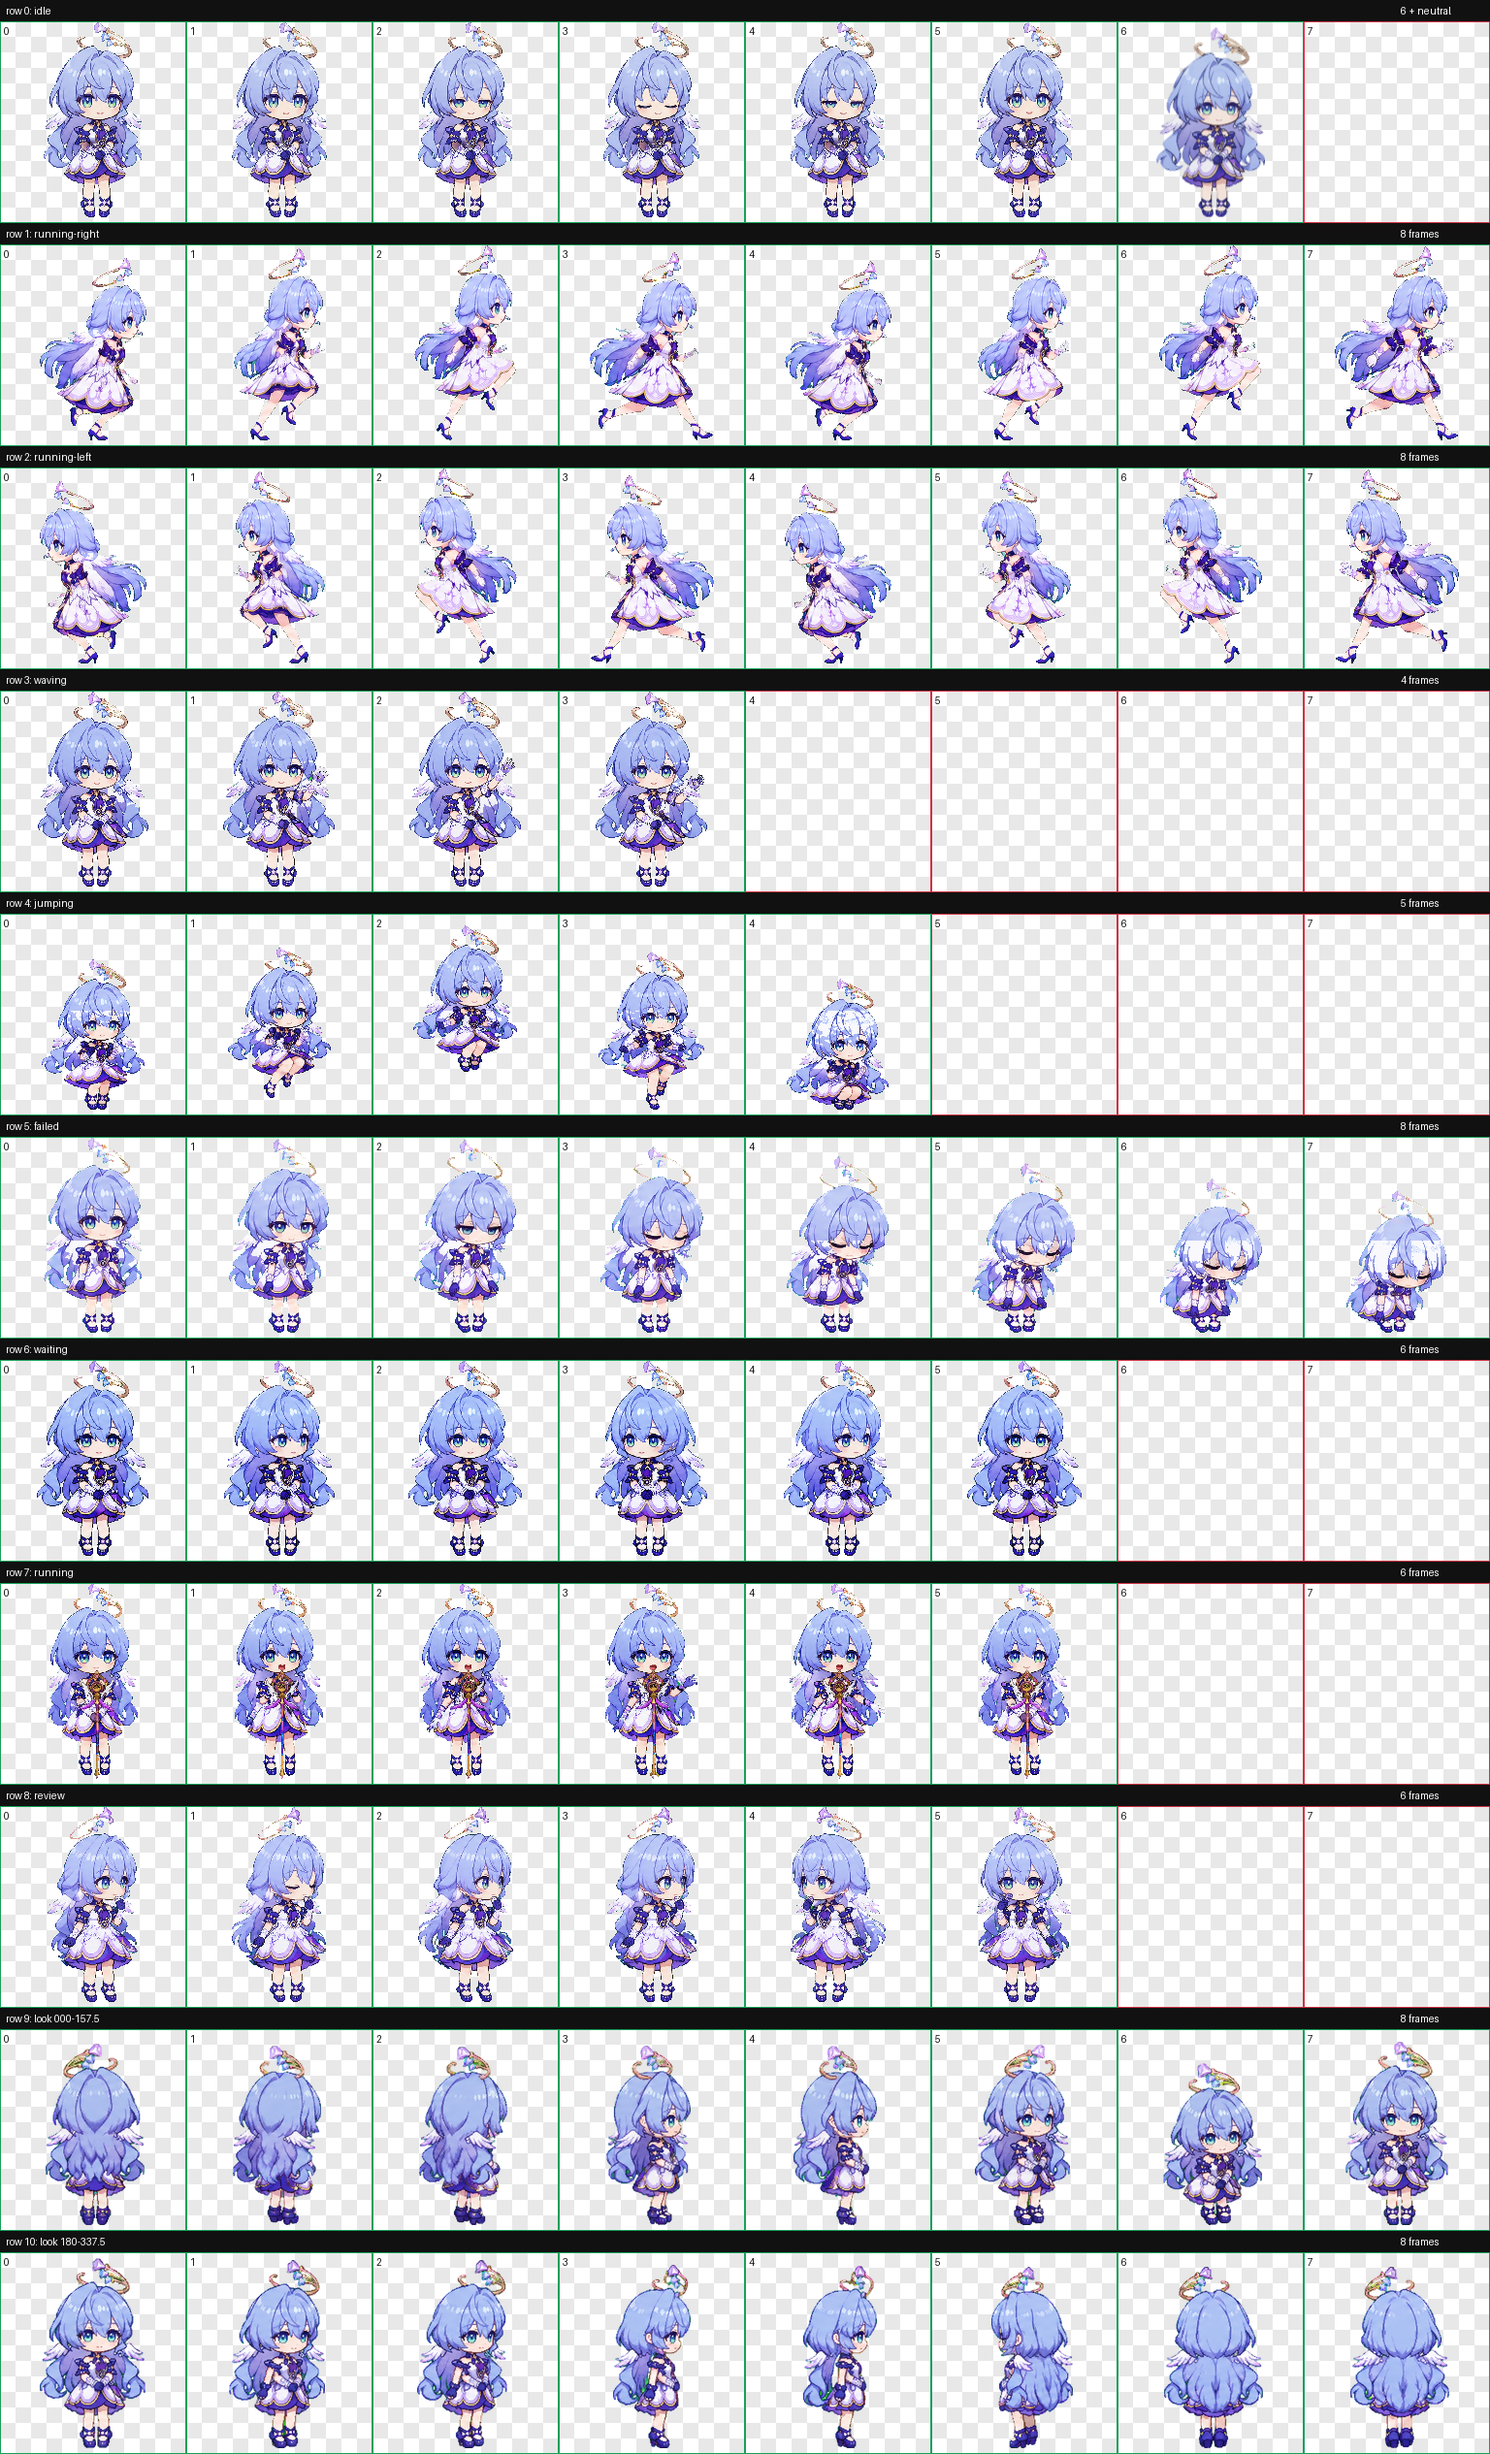
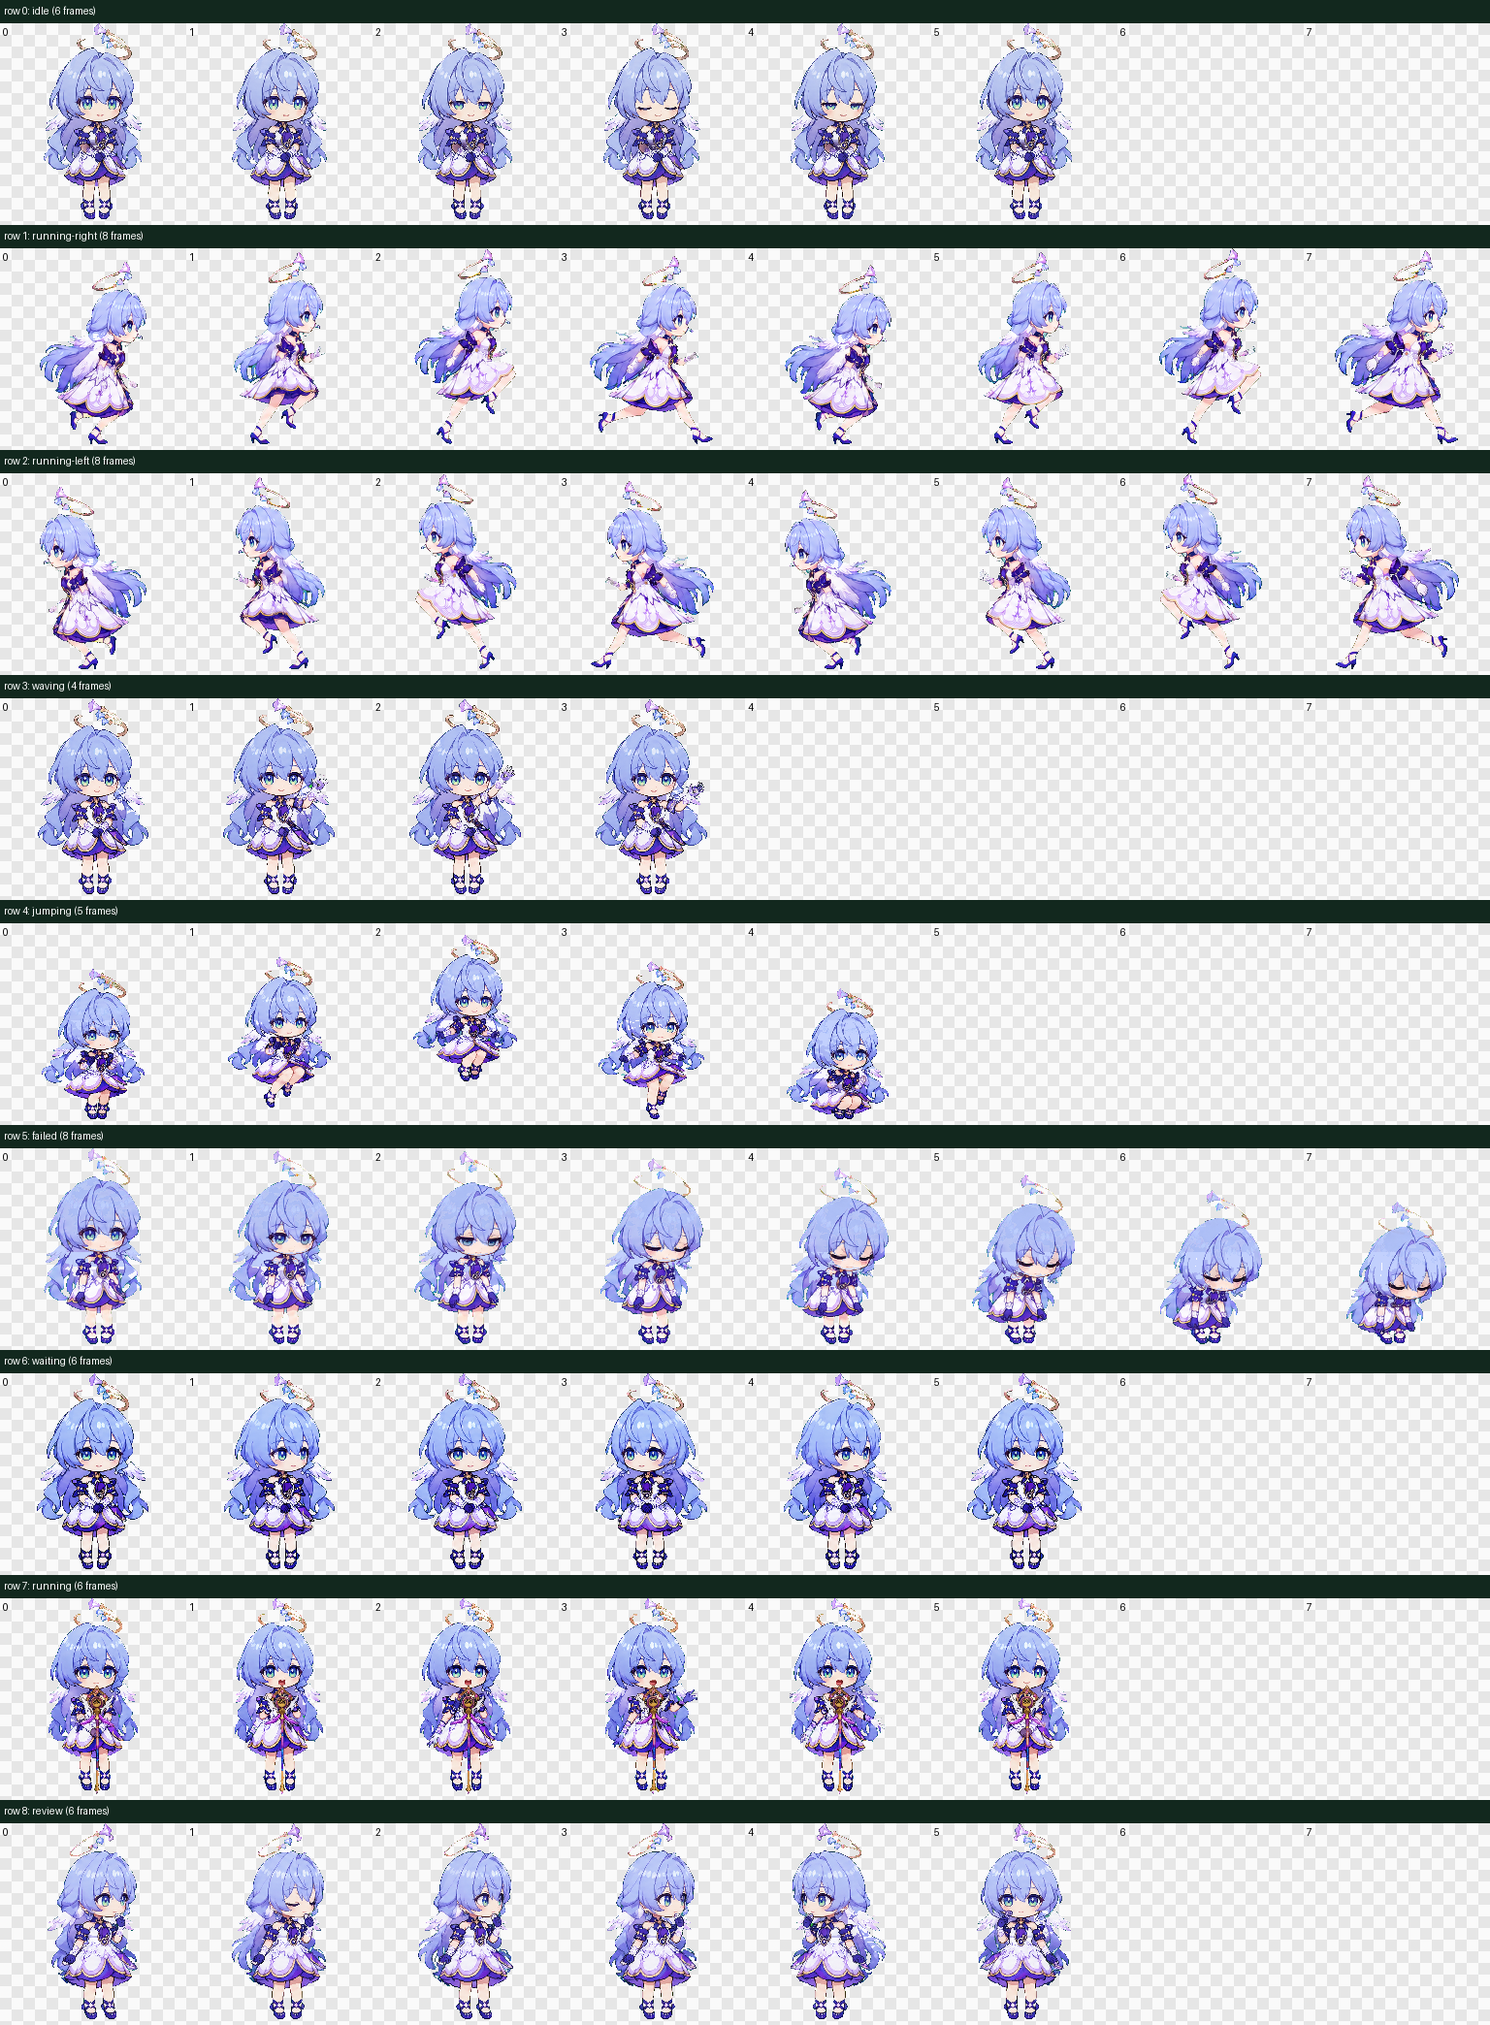
Replace published assets with row4 row5 repair

diff --git a/README.md b/README.md
@@ -2,9 +2,9 @@
 
 Robin Star Rail is a free, open-source animated pet for Codex.
 
-![Robin contact sheet](https://raw.githubusercontent.com/ybm1005/robin-star-rail-codex-pet/main/preview/contact-sheet.png?v=20260801-color-loss-fix)
+![Robin contact sheet](https://raw.githubusercontent.com/ybm1005/robin-star-rail-codex-pet/main/preview/contact-sheet.png?v=20260801-row4-row5-repair)
 
-![Robin look directions](https://raw.githubusercontent.com/ybm1005/robin-star-rail-codex-pet/main/preview/look-directions.png?v=20260801-color-loss-fix)
+![Robin look directions](https://raw.githubusercontent.com/ybm1005/robin-star-rail-codex-pet/main/preview/look-directions.png?v=20260801-row4-row5-repair)
 
 ## 中文说明
 
@@ -58,7 +58,7 @@ cp pets/robin/* ~/.codex/pets/robin/
 
 - Color-loss repair synced: `2026-08-01`
 - Published spritesheet: `pets/robin/spritesheet.webp`
[2 lines of base64/hex data omitted]
 - Validation target: published WebP package
 - Validation status: passed, no errors, no warnings
 

diff --git a/PUBLISHING_CHECKLIST.md b/PUBLISHING_CHECKLIST.md
@@ -7,7 +7,7 @@
 - [x] Preview image exists at `preview/contact-sheet.png`.
 - [x] Direction preview exists at `preview/look-directions.png`.
 - [x] Validation report exists at `qa/validation-extended.json`.
-- [x] README image URLs include the `20260801-color-loss-fix` cache-busting version.
+- [x] README image URLs include the `20260801-row4-row5-repair` cache-busting version.
 - [x] Generated build folders are ignored by `.gitignore`.
 
 ## Review
